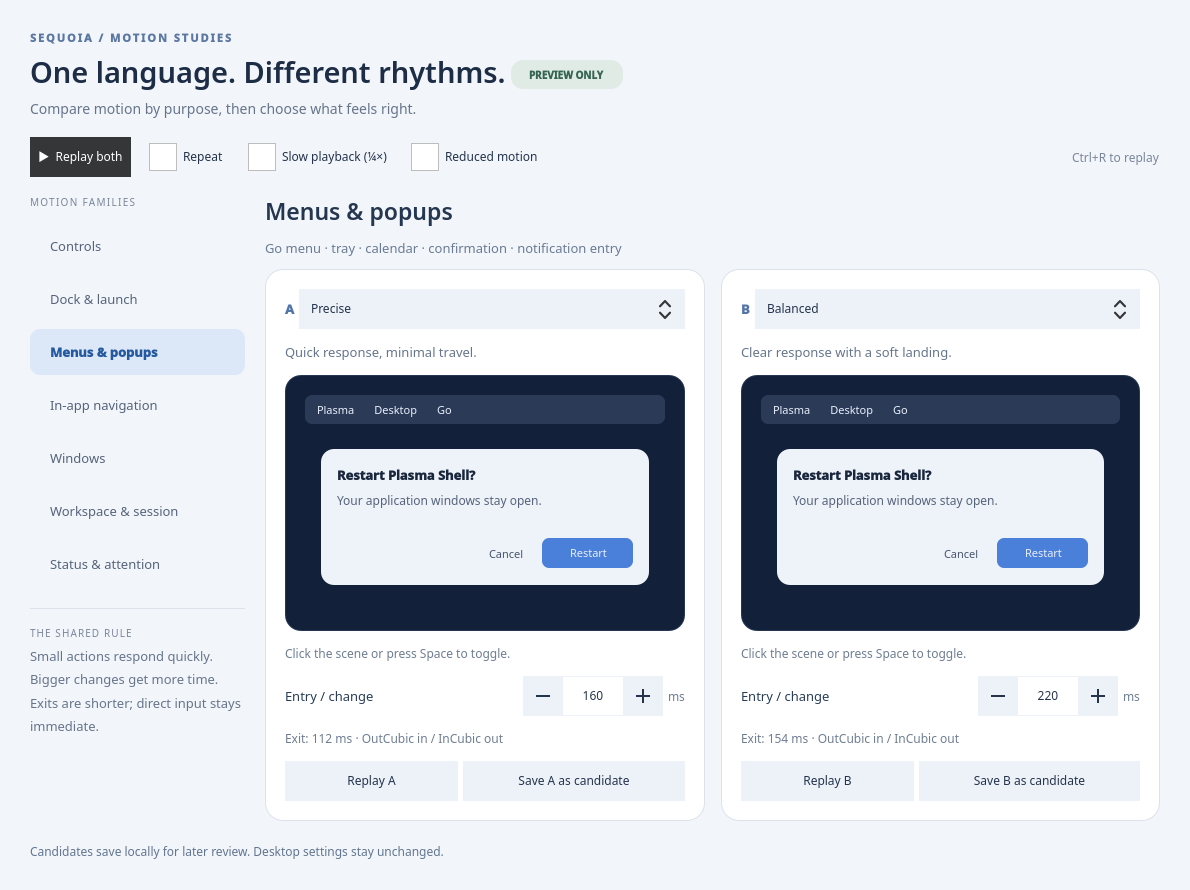
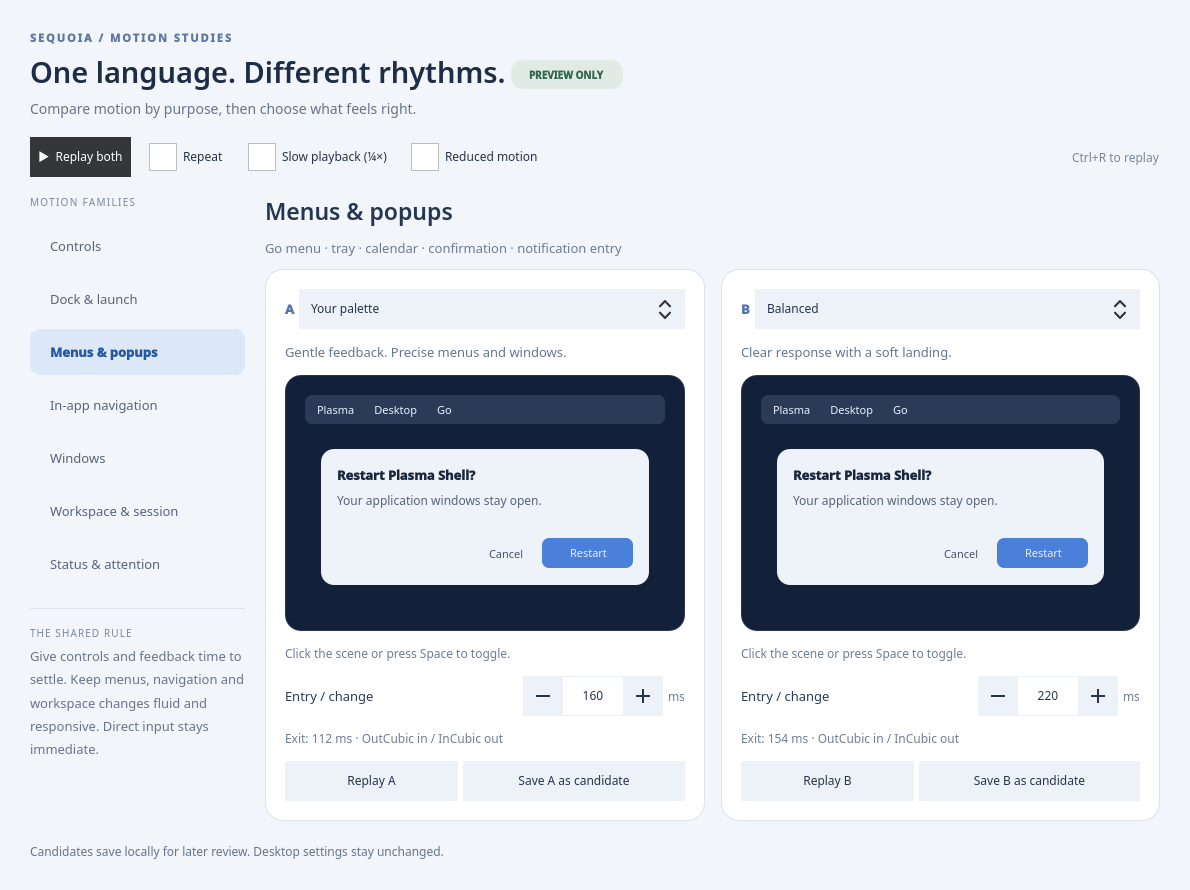
Finished development for motion lab, a animation testing environment to see what things look like before you build them.

diff --git a/tools/motion-lab/PalettePanel.qml b/tools/motion-lab/PalettePanel.qml
@@ -8,10 +8,15 @@ Rectangle {
     required property int category
     required property bool reduced
     required property real playbackScale
-    property int presetIndex: side === "A" ? 0 : 1
+    property int presetIndex: side === "A" ? 3 : 1
     property var durations: motionData.presets[presetIndex].durations.slice()
     readonly property var preset: motionData.presets[presetIndex]
+    readonly property var categoryStyle: (preset.categoryOverrides || {})[motionData.categories[category].id] || {}
     readonly property int currentDuration: durations[category]
+    readonly property real exitRatio: categoryStyle.exitRatio === undefined
+        ? (preset.exitRatio === undefined ? .7 : preset.exitRatio) : categoryStyle.exitRatio
+    readonly property int distance: categoryStyle.distance === undefined ? preset.distance : categoryStyle.distance
+    readonly property string curve: categoryStyle.curve || preset.curve
     signal saved(string message)
     color: "white"; radius: 18; border.color: "#dce2eb"
     implicitHeight: content.implicitHeight + 40
@@ -21,7 +26,8 @@ Rectangle {
     function exportCandidate() {
         return JSON.stringify({schemaVersion: 1, name: preset.name, durations: durations,
             distance: preset.distance, curve: preset.curve, reducedMotion: reduced,
-            exitRatio: .7, symmetricCategories: ["navigation", "workspace"],
+            exitRatio: preset.exitRatio === undefined ? .7 : preset.exitRatio,
+            categoryOverrides: preset.categoryOverrides || {}, symmetricCategories: ["navigation", "workspace"],
             reducedMotionPolicy: "No travel, scale or pulse; fades capped at 80ms; direct input stays immediate",
             categories: motionData.categories, scope: "preview candidate; no system settings applied"});
     }
@@ -44,8 +50,9 @@ Rectangle {
         MotionSample {
             id: sample; objectName: "sample" + panel.side
             Layout.fillWidth: true; Layout.preferredHeight: 256
-            category: panel.category; entryDuration: panel.currentDuration; distance: panel.preset.distance
-            curve: panel.preset.curve; reduced: panel.reduced; playbackScale: panel.playbackScale
+            category: panel.category; entryDuration: panel.currentDuration; distance: panel.distance
+            curve: panel.curve; reduced: panel.reduced; playbackScale: panel.playbackScale
+            exitRatio: panel.exitRatio
         }
         Text { text: "Click the scene or press Space to toggle."; color: "#6e7d92"; font.pixelSize: 12 }
         RowLayout {
@@ -60,8 +67,8 @@ Rectangle {
         Text {
             Layout.fillWidth: true; wrapMode: Text.WordWrap; color: "#6e7d92"; font.pixelSize: 12
             text: (panel.category === 3 || panel.category === 5 ? "Both directions: " : "Exit: ")
-                + Math.round(panel.currentDuration * (panel.category === 3 || panel.category === 5 ? 1 : .7)) + " ms · "
-                + (panel.category === 3 || panel.category === 5 ? "InOutCubic" : panel.preset.curve + " in / InCubic out")
+                + Math.round(panel.currentDuration * (panel.category === 3 || panel.category === 5 ? 1 : panel.exitRatio)) + " ms · "
+                + (panel.category === 3 || panel.category === 5 ? "InOutCubic" : panel.curve + " in / InCubic out")
                 + (panel.reduced ? "\nReduced motion: no movement; fade ≤ 80 ms." : "")
         }
         RowLayout {

diff --git a/tools/motion-lab/Main.qml b/tools/motion-lab/Main.qml
@@ -64,7 +64,7 @@ ApplicationWindow {
                     }
                     Rectangle { Layout.fillWidth: true; height: 1; color: "#dce2eb"; Layout.topMargin: 14; Layout.bottomMargin: 10 }
                     Text { text: "THE SHARED RULE"; color: "#7a879a"; font.pixelSize: 10; font.letterSpacing: 1.1 }
-                    Text { Layout.fillWidth: true; text: "Small actions respond quickly. Bigger changes get more time. Exits are shorter; direct input stays immediate."; color: "#66758b"; font.pixelSize: 13; wrapMode: Text.WordWrap; lineHeight: 1.3 }
+                    Text { Layout.fillWidth: true; text: "Give controls and feedback time to settle. Keep menus, navigation and workspace changes fluid and responsive. Direct input stays immediate."; color: "#66758b"; font.pixelSize: 13; wrapMode: Text.WordWrap; lineHeight: 1.3 }
                 }
                 ColumnLayout {
                     Layout.fillWidth: true; Layout.alignment: Qt.AlignTop; spacing: 12

diff --git a/tools/motion-lab/MotionSample.qml b/tools/motion-lab/MotionSample.qml
@@ -8,12 +8,13 @@ Rectangle {
     required property string curve
     required property bool reduced
     required property real playbackScale
+    required property real exitRatio
     property real progress: 0
     property bool opened: false
     readonly property real travel: reduced ? 0 : distance
     readonly property real pulse: reduced || !opened ? 0 : Math.sin(progress * Math.PI)
     readonly property int enterMs: Math.round((reduced ? Math.min(entryDuration, 80) : entryDuration) * playbackScale)
-    readonly property int exitMs: Math.round(enterMs * (category === 3 || category === 5 ? 1 : .7))
+    readonly property int exitMs: Math.round(enterMs * (category === 3 || category === 5 ? 1 : exitRatio))
     readonly property int enterCurve: category === 3 || category === 5 ? Easing.InOutCubic : curve === "OutQuint" ? Easing.OutQuint : Easing.OutCubic
     color: "#122039"
     radius: 16

diff --git a/tools/motion-lab.py b/tools/motion-lab.py
@@ -57,7 +57,8 @@ app = QGuiApplication(sys.argv[:1])
 app.setApplicationName('Sequoia Motion Lab')
 engine = QQmlApplicationEngine()
 store = CandidateStore()
-engine.rootContext().setContextProperty('motionData', json.loads((ASSETS / 'palettes.json').read_text()))
+motion_data = json.loads((ASSETS / 'palettes.json').read_text())
+engine.rootContext().setContextProperty('motionData', motion_data)
 engine.rootContext().setContextProperty('candidateStore', store)
 qml_errors = []
 engine.warnings.connect(lambda warnings: qml_errors.extend(str(w) for w in warnings))
@@ -74,7 +75,7 @@ if args.check:
         assert QMetaObject.invokeMethod(obj, method, Qt.DirectConnection), method
     for category in range(7):
         window.setProperty('categoryIndex', category)
-        for preset in range(3):
+        for preset in range(len(motion_data['presets'])):
             panel = window.findChild(QObject, 'paletteA')
             panel.setProperty('presetIndex', preset)
             sample = window.findChild(QObject, 'sampleA')
@@ -101,13 +102,26 @@ if args.check:
         assert sample.property('progress') > .99, 'reduced motion failed to settle'
     window.setProperty('reducedMotion', False)
     window.setProperty('categoryIndex', 2)
-    window.findChild(QObject, 'paletteA').setProperty('presetIndex', 0)
+    window.findChild(QObject, 'paletteA').setProperty('presetIndex', 3)
     window.findChild(QObject, 'paletteB').setProperty('presetIndex', 1)
     exported = QMetaObject.invokeMethod(window.findChild(QObject, 'paletteA'),
         'exportCandidate', Qt.DirectConnection, Q_RETURN_ARG('QVariant'))
     candidate = json.loads(exported)
     assert len(candidate['durations']) == len(candidate['categories']) == 7
-    assert candidate['name'] == 'Precise' and not candidate['reducedMotion']
+    assert candidate['name'] == 'Your palette' and not candidate['reducedMotion']
+    assert candidate['durations'] == [200, 370, 160, 200, 240, 200, 450]
+    assert candidate['exitRatio'] == .85
+    assert window.findChild(QObject, 'sampleA').property('exitMs') == 112
+    for index, key in ((2, 'surfaces'), (4, 'windows')):
+        window.setProperty('categoryIndex', index)
+        sample = window.findChild(QObject, 'sampleA')
+        precise = motion_data['presets'][0]
+        assert sample.property('entryDuration') == precise['durations'][index]
+        assert sample.property('distance') == precise['distance']
+        assert sample.property('curve') == precise['curve']
+        assert sample.property('exitRatio') == .7
+        assert candidate['categoryOverrides'][key] == {'distance': 8, 'curve': 'OutCubic', 'exitRatio': .7}
+    window.setProperty('categoryIndex', 2)
     assert 'playbackScale' not in candidate
     import tempfile
     with tempfile.TemporaryDirectory(prefix='sequoia-motion-export-') as temporary:
@@ -122,7 +136,7 @@ if args.check:
     path = ROOT / 'preview/motion-lab.png'
     assert window.grabWindow().save(str(path))
     assert not qml_errors, '\n'.join(qml_errors)
-    print('PASS: seven families × three palettes; forward/reverse motion, finite attention, reduced motion; no QML warnings')
+    print(f"PASS: seven families × {len(motion_data['presets'])} palettes; forward/reverse motion, finite attention, reduced motion; no QML warnings")
     print('Preview:', path)
 else:
     sys.exit(app.exec())

diff --git a/README.md b/README.md
@@ -662,26 +662,30 @@ it as `main.qml.before-compact-highlight`. Reload the widget to see changes.
 ### Motion palette lab
 
 Open **Sequoia Motion Lab.desktop** or run `python3 tools/motion-lab.py` to
-compare Precise, Balanced, and Relaxed animation palettes. This standalone Qt
+compare Your palette, Precise, Balanced, and Relaxed animation palettes. The lab
+opens with Your palette beside Balanced. This standalone Qt
 preview changes no Plasma, KWin, application-style, or desktop animation settings.
 Choose a family on the left, compare two palettes, and click a scene to play it
 forward or backward. **Replay both** synchronizes the comparison; slow playback
 and reduced motion help inspect it. Each side's duration control edits just that
 family. Switching a side's preset resets that side's edits.
 
-| Family | Shared behavior | Precise / Balanced / Relaxed (ms) |
-| --- | --- | --- |
-| Controls | Hover, focus, toggles; short color and position transitions | 90 / 120 / 150 |
-| Dock & launch | Icon lift and a single launch pulse | 140 / 180 / 230 |
-| Menus & popups | Menus, tray, calendar, confirmation and notification entry | 160 / 220 / 280 |
-| In-app navigation | Settings pages, tabs and Start menu categories | 200 / 260 / 340 |
-| Windows | Open, close, minimize, restore and maximize | 240 / 320 / 420 |
-| Workspace & session | Virtual desktops, Overview and session transitions | 300 / 400 / 540 |
-| Status & attention | One finite cue, followed by a persistent state | 220 / 300 / 400 |
+| Family | Shared behavior | Your palette (ms) | Precise / Balanced / Relaxed (ms) |
+| --- | --- | --- | --- |
+| Controls | Hover, focus, toggles; short color and position transitions | 200 | 90 / 120 / 150 |
+| Dock & launch | Icon lift and a single launch pulse | 370 | 140 / 180 / 230 |
+| Menus & popups | Menus, tray, calendar, confirmation and notification entry | 160 (Precise) | 160 / 220 / 280 |
+| In-app navigation | Settings pages, tabs and Start menu categories | 200 | 200 / 260 / 340 |
+| Windows | Open, close, minimize, restore and maximize | 240 (Precise) | 240 / 320 / 420 |
+| Workspace & session | Virtual desktops, Overview and session transitions | 200 | 300 / 400 / 540 |
+| Status & attention | One finite cue, followed by a persistent state | 450 | 220 / 300 / 400 |
 
 These are proposed family timings, not measurements of installed effects.
-Entrances use OutCubic (Precise/Balanced) or OutQuint (Relaxed); exits use InCubic
-at 70% of entry time. Navigation and workspace transitions use InOutCubic at the
+Entrances use OutCubic (Your palette/Precise/Balanced) or OutQuint (Relaxed).
+Your palette uses InCubic exits at 85% of entry time, except menus and windows,
+which use the full Precise behavior: 8 px travel and exits at 70% (112 ms for
+menus, 168 ms for windows). The original presets use 70%.
+Navigation and workspace transitions use InOutCubic at the
 same duration in either direction. Reduced motion removes translation, scaling
 and pulsing, with fades capped at 80 ms. Direct dragging, scrolling, actual
 progress, notification dwell, and authentication timing remain independent.
@@ -689,10 +693,11 @@ Window and workspace scenes represent the proposed feel; they do not execute
 real KWin effects. Integration into each component happens after palette review.
 
 **Save A/B as candidate** exports all seven timings, category mappings, easing,
-and reduced-motion policy to a new JSON file in `preview/motion-palettes/`.
+category-specific travel and exit overrides, and reduced-motion policy to a new
+JSON file in `preview/motion-palettes/`.
 Slow playback is only an inspection aid and is not exported. Candidates can mix
 family timings through the per-family controls; choosing a preset again resets
-those edits. Run `python3 tools/motion-lab.py --check` to verify all three palettes
+those edits. Run `python3 tools/motion-lab.py --check` to verify all four palettes
 across all seven families, reverse transitions, finite pulses, and reduced
 motion, and produce `preview/motion-lab.png`. Requires PySide6.
 
